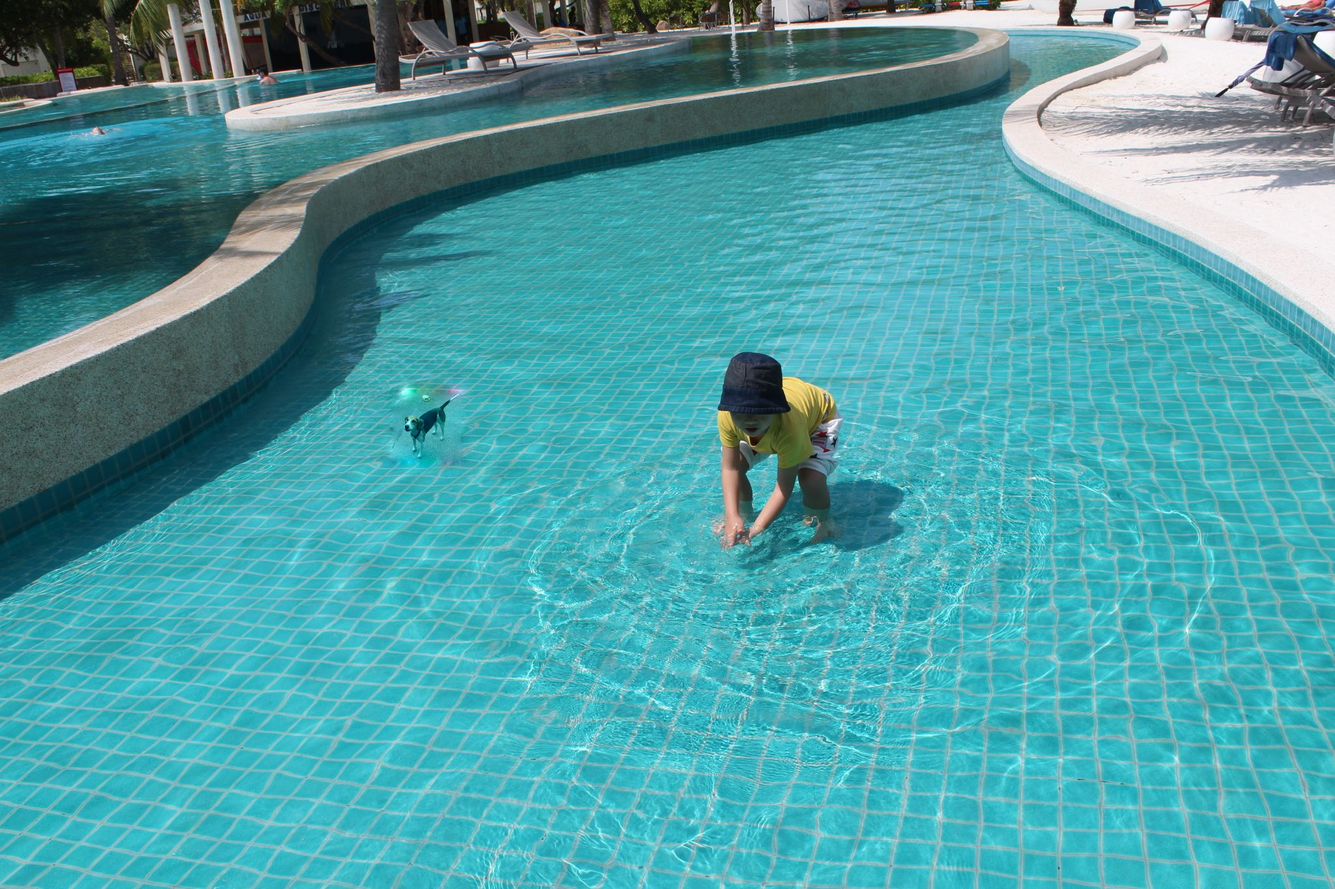
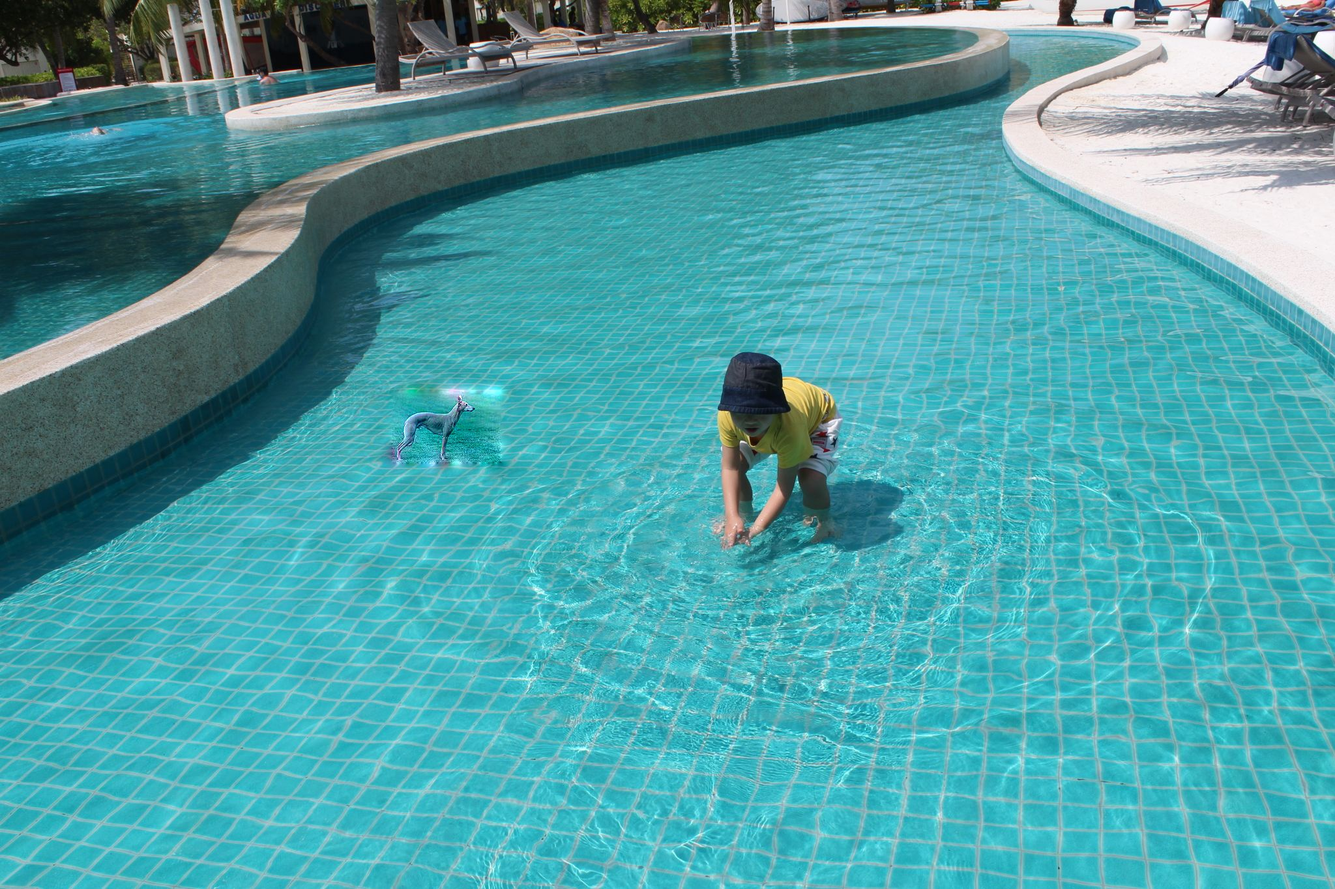
fix some idx bug

Changed region(s): [[0.2812, 0.4308, 0.375, 0.5231]]

diff --git a/possion/possion.py b/possion/possion.py
@@ -7,7 +7,7 @@ from lmutils import debug_info
 from possion_utils import Utils
 
 class possion():
-    def __init__(self, prepic, bakpic, cp2pt, zone_width=20):
+    def __init__(self, prepic, bakpic, cp2pt, zone_width=50):
         """
         prepic: 
         bakpic:
@@ -90,7 +90,6 @@ class possion():
             tmp[0] -= pic[p[0], p[1]][0]
             tmp[1] -= pic[p[0], p[1]][1]
             tmp[2] -= pic[p[0], p[1]][2]
-            #print(debug_info(), tmp)
 
         self.matb[0].append(tmp[0])
         self.matb[1].append(tmp[1])

diff --git a/possion/transform.py b/possion/transform.py
@@ -1,6 +1,6 @@
 import cv2
-pic = cv2.imread("{0}".format("pre.jpg"))
+pic = cv2.imread("{0}".format("pre1.jpg"))
 h, w, _ = pic.shape
 print(h, w)
-dst = cv2.resize(pic, (int(w/5), int(h/5)), interpolation=cv2.INTER_CUBIC)
+dst = cv2.resize(pic, (int(w/2), int(h/2)), interpolation=cv2.INTER_CUBIC)
 cv2.imwrite("transform.jpg", dst)

diff --git a/possion/tests.py b/possion/tests.py
@@ -9,7 +9,7 @@ try:
 except Exception as e:
 	t = (500, 500)
 
-p = possion("transform.jpg", "bak.jpg", t)
+p = possion("pre1.jpg", "bak.jpg", t)
 p.construct_mat()
 p.calc_x()
 
